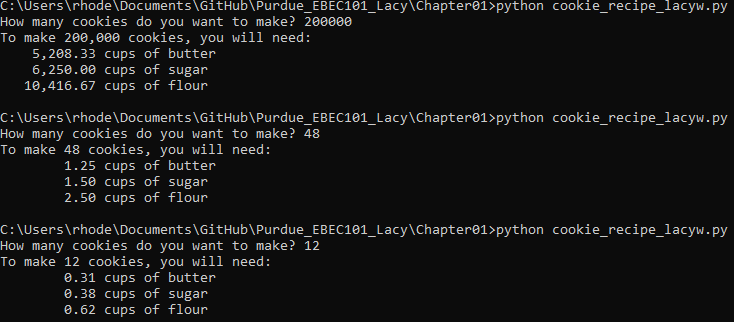
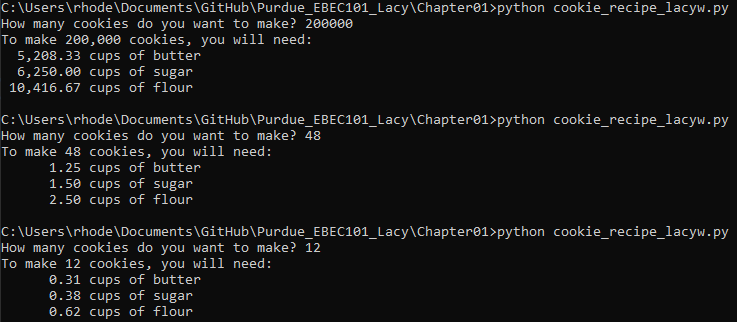
Interest formatting correction

Changed region(s): [[0.0, 0.0, 0.9891, 0.3106], [0.0, 0.6832, 0.9891, 0.9938], [0.0, 0.3416, 0.9891, 0.6522]]

diff --git a/Chapter01/cookie_recipe_lacyw.py b/Chapter01/cookie_recipe_lacyw.py
@@ -1,6 +1,6 @@
 """
 Author: William Rhodes Lacy, lacyw@purdue.edu
-Assignment: 01.3 - cookie_recipe
+Assignment: 01.3 - Cookie Recipe
 Date: 02/07/2022
 
 Description:
@@ -43,9 +43,9 @@ def main():
 	
 	#Output: output the ingredient list
 	print("To make {:,d} cookies, you will need:".format(num));
-	print("  {:>10,.2f} cups of butter".format(butter));
-	print("  {:>10,.2f} cups of sugar".format(sugar));
-	print("  {:>10,.2f} cups of flour".format(flour));
+	print("{:>10,.2f} cups of butter".format(butter));
+	print("{:>10,.2f} cups of sugar".format(sugar));
+	print("{:>10,.2f} cups of flour".format(flour));
 
 
 """Do not change anything below this line."""

diff --git a/Chapter01/interest_lacyw.py b/Chapter01/interest_lacyw.py
@@ -33,13 +33,13 @@ Academic Integrity Statement:
 
 def main():
 	#Prompt user with data format
-	print("Enter each of the following parameters.");
+	print("Enter the following parameters.");
 	
 	#Inputs - prompt user for specific, floating point inputs
 	P = float(input("  The initial deposit? "));
 	r = float(input("  The annual interest rate in percent? "));
 	t = float(input("  The number of years the account earn interest? "));
-	n = float(input("  The number of times the interest is compounded each year: "));
+	n = float(input("  The number of times interest is compounded each year: "));
 	
 	#Calculations - calculate the account balance
 	r = r / 100;
